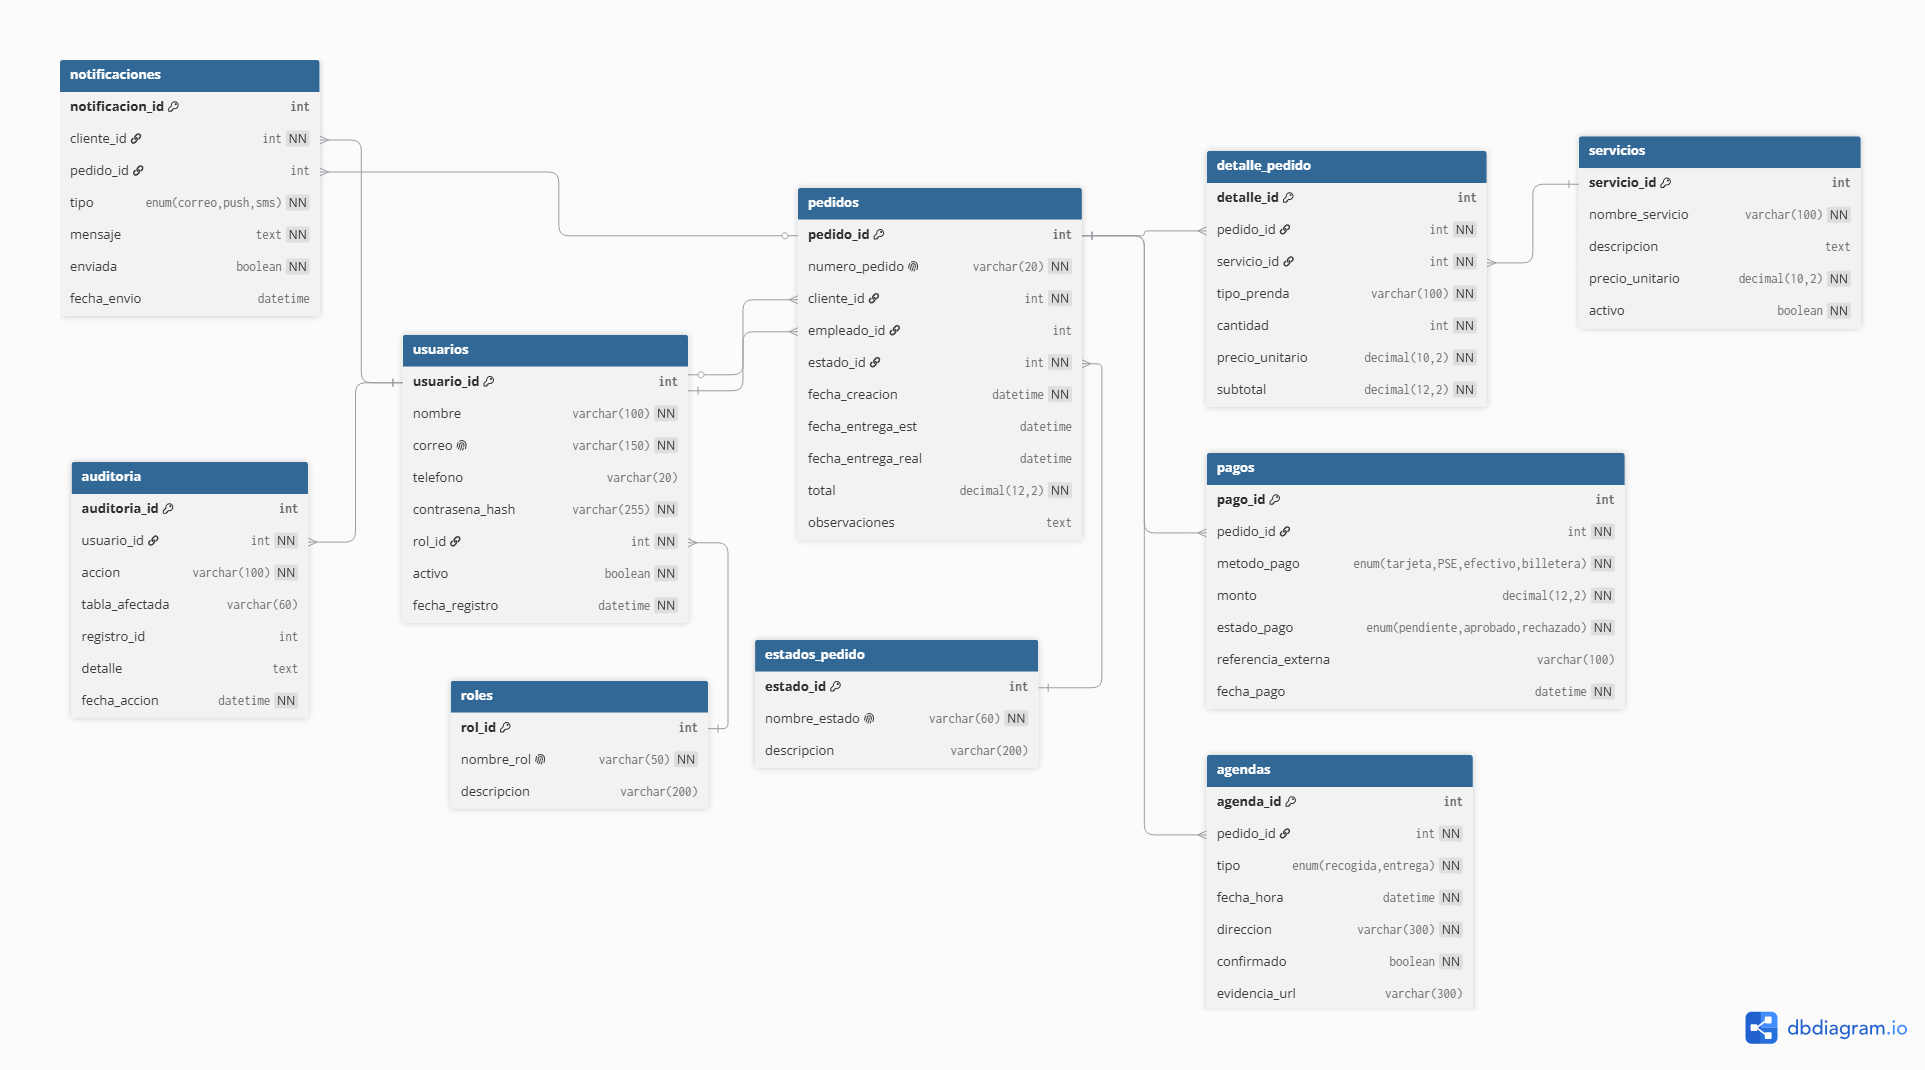
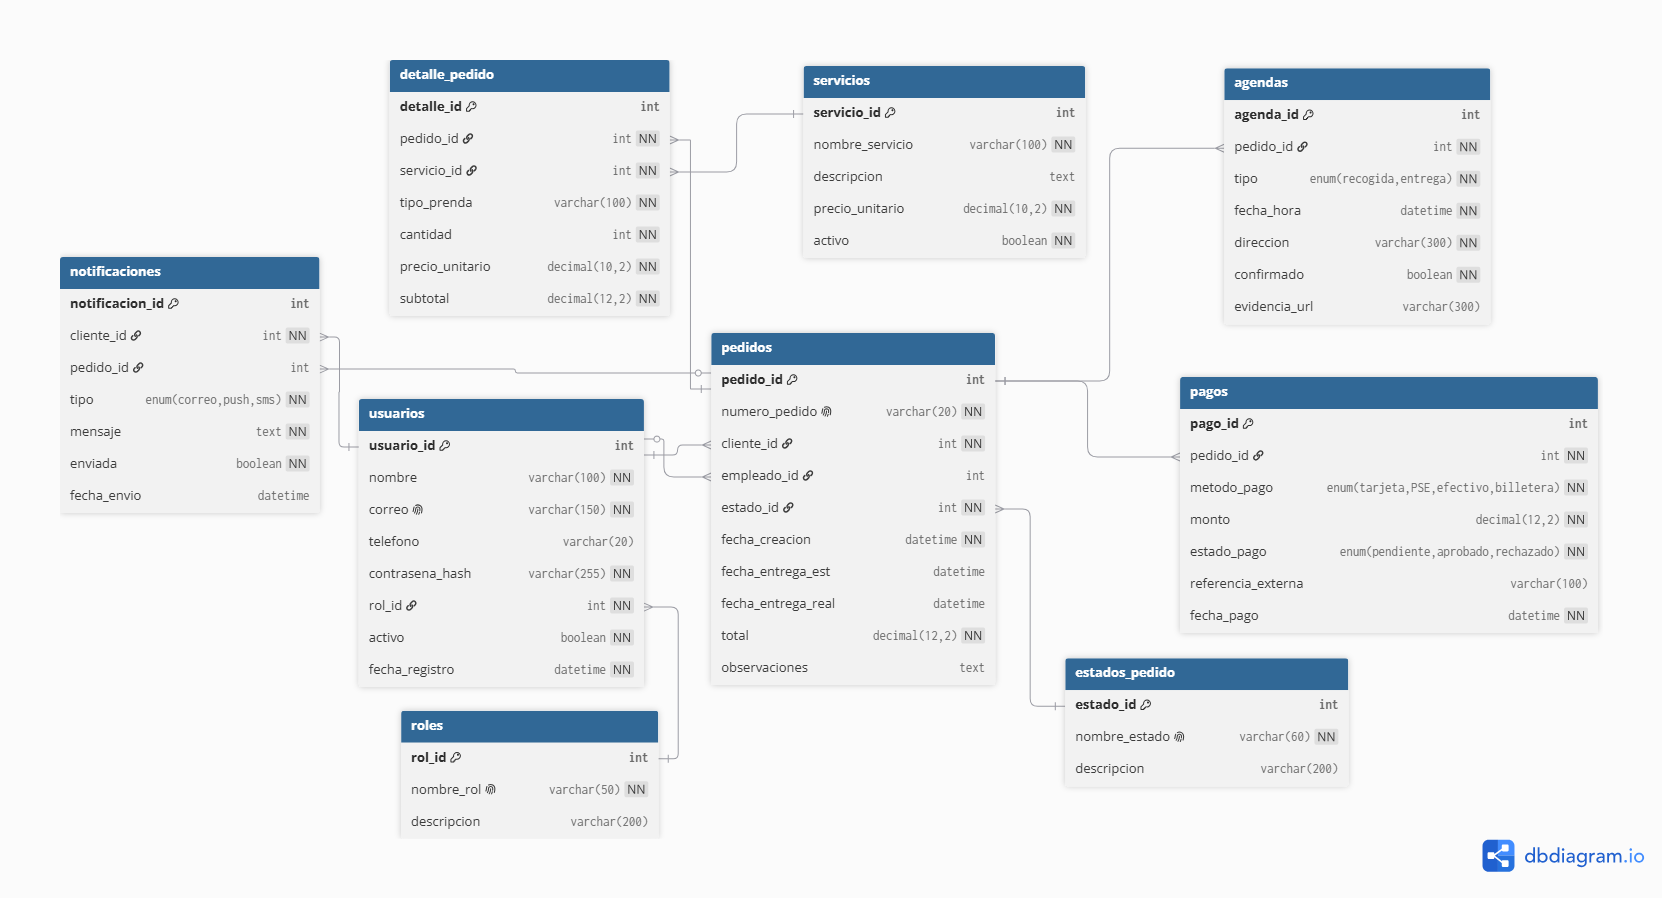
Cambios de diseño y contenido

diff --git a/css/styles.css b/css/styles.css
@@ -715,6 +715,74 @@ code{
 }
 .pattern-card p{ font-size:.9rem; margin:0; }
 
+.stack-grid{
+  display:flex;
+  flex-wrap:wrap;
+  gap: .8rem;
+  margin-top: 1rem;
+}
+.stack-chip{
+  display:inline-flex;
+  align-items:center;
+  gap:.55rem;
+  font-size:.88rem;
+  font-weight:600;
+  color: var(--text-main);
+  background: var(--bg-alt);
+  border: 1px solid var(--surface-border);
+  padding: .55rem 1.1rem;
+  border-radius: 50px;
+  transition: transform .2s ease, box-shadow .2s ease, border-color .2s ease;
+}
+.stack-chip:hover{
+  transform: translateY(-3px);
+  box-shadow: var(--sombra-sm);
+  border-color: var(--azul-acento);
+}
+.stack-chip i{
+  color: var(--azul-principal);
+  font-size: 1rem;
+}
+
+.standards-grid{
+  display:grid;
+  grid-template-columns: repeat(2, 1fr);
+  gap: 1.2rem;
+  margin: 1.2rem 0 1.4rem;
+}
+.standard-card{
+  background: var(--bg-alt);
+  border-radius: var(--radio-md);
+  padding: 1.4rem;
+  transition: transform .25s ease, box-shadow .25s ease;
+}
+.standard-card:hover{ transform: translateY(-4px); box-shadow: var(--sombra-sm); }
+.standard-card__badge{
+  display:inline-flex;
+  align-items:center;
+  gap:.5rem;
+  font-family: var(--font-display);
+  font-weight:700;
+  font-size:.85rem;
+  color:#fff;
+  background: var(--azul-principal);
+  padding: .3rem .9rem;
+  border-radius: 50px;
+  margin-bottom: .9rem;
+}
+.standard-card ul{
+  margin:0;
+  padding-left: 1.1rem;
+  display:flex;
+  flex-direction:column;
+  gap:.5rem;
+}
+.standard-card li{
+  font-size:.9rem;
+  color: var(--text-muted);
+}
+.standard-card code{ font-size:.82rem; }
+
 .scrum-grid{
   display:grid;
   grid-template-columns: repeat(3, 1fr);
@@ -975,6 +1043,7 @@ code{
 
   .objetivos-grid{ grid-template-columns: 1fr; }
   .patterns-grid{ grid-template-columns: 1fr; }
+  .standards-grid{ grid-template-columns: 1fr; }
   .scrum-grid{ grid-template-columns: 1fr; }
   .typo-grid{ grid-template-columns: 1fr; }
   .proto-grid{ grid-template-columns: 1fr; }

diff --git a/index.html b/index.html
@@ -257,7 +257,7 @@
 
         <figure class="diagram-card reveal" data-lightbox>
           <div class="diagram-card__img">
-            <img src="img/modelo-conceptual.png" alt="Modelo conceptual" loading="lazy">
+            <img src="img/modelo_conceptual.png" alt="Modelo conceptual" loading="lazy">
             <span class="diagram-card__zoom"><i class="fa-solid fa-magnifying-glass-plus"></i></span>
           </div>
           <figcaption>
@@ -272,8 +272,30 @@
             <span class="diagram-card__zoom"><i class="fa-solid fa-magnifying-glass-plus"></i></span>
           </div>
           <figcaption>
-            <h3>Modelo lógico (ER)</h3>
+            <h3>Modelo lógico</h3>
             <p>Diagrama entidad-relación con tablas, llaves primarias/foráneas y relaciones para MySQL.</p>
+          </figcaption>
+        </figure>
+
+        <figure class="diagram-card reveal" data-lightbox>
+          <div class="diagram-card__img">
+            <img src="img/modelo_mer.png" alt="Modelo entidad-relación" loading="lazy">
+            <span class="diagram-card__zoom"><i class="fa-solid fa-magnifying-glass-plus"></i></span>
+          </div>
+          <figcaption>
+            <h3>Modelo entidad-relación</h3>
+            <p>Representación detallada de entidades, atributos y relaciones del dominio de negocio antes de su normalización.</p>
+          </figcaption>
+        </figure>
+
+        <figure class="diagram-card reveal" data-lightbox>
+          <div class="diagram-card__img">
+            <img src="img/modelo_fisico.png" alt="Modelo físico de base de datos" loading="lazy">
+            <span class="diagram-card__zoom"><i class="fa-solid fa-magnifying-glass-plus"></i></span>
+          </div>
+          <figcaption>
+            <h3>Modelo físico</h3>
+            <p>Estructura final de tablas, tipos de dato, índices y restricciones implementada en el motor MySQL.</p>
           </figcaption>
         </figure>
 
@@ -316,17 +338,47 @@
             <span class="pattern-card__badge">Repository</span>
             <p>Aísla el acceso a la base de datos del resto de la lógica de negocio, centralizando las consultas relacionadas con cada entidad.</p>
           </div>
-        </div>
         <div class="justification">
           <i class="fa-solid fa-circle-check"></i>
           <p><strong>Justificación:</strong> la combinación de estos dos patrones mantiene el código organizado y con responsabilidades claras, favorece la mantenibilidad al aislar la lógica de acceso a datos —de modo que un cambio de motor de base de datos afectaría únicamente a los repositorios— y prepara al sistema para escalar sin necesidad de reestructurar lo ya construido.</p>
         </div>
       </div>
 
+      <!-- Stack tecnológico -->
+      <div class="dev-block reveal">
+        <h3><i class="fa-solid fa-microchip"></i> Stack tecnológico</h3>
+        <div class="stack-grid">
+          <span class="stack-chip"><i class="fa-brands fa-html5"></i> HTML5</span>
+          <span class="stack-chip"><i class="fa-brands fa-css3-alt"></i> CSS3</span>
+          <span class="stack-chip"><i class="fa-brands fa-js"></i> JavaScript</span>
+          <span class="stack-chip"><i class="fa-brands fa-bootstrap"></i> Bootstrap 5</span>
+          <span class="stack-chip"><i class="fa-brands fa-node-js"></i> Node.js</span>
+          <span class="stack-chip"><i class="fa-solid fa-route"></i> Express</span>
+          <span class="stack-chip"><i class="fa-solid fa-database"></i> MySQL</span>
+          <span class="stack-chip"><i class="fa-solid fa-cubes"></i> Sequelize (ORM)</span>
+          <span class="stack-chip"><i class="fa-brands fa-git-alt"></i> Git</span>
+        </div>
+      </div>
+
       <!-- Estándares -->
       <div class="dev-block reveal">
         <h3><i class="fa-solid fa-code"></i> Estándares de programación utilizados</h3>
-        <p>El proyecto sigue convenciones de nomenclatura consistentes: <code>camelCase</code> para variables, atributos y métodos; <code>PascalCase</code> para clases, controladores, servicios y repositorios; y <code>snake_case</code> para tablas y campos en la base de datos. A nivel de estilo se emplean 2 espacios de indentación en JavaScript, líneas de máximo 100 caracteres y llaves obligatorias en las estructuras de control, junto con los principios <strong>DRY</strong>, <strong>KISS</strong> y <strong>YAGNI</strong> como guía general de diseño del código.</p>
+        <div class="standards-grid">
+          <div class="standard-card">
+            <span class="standard-card__badge"><i class="fa-brands fa-js"></i> JavaScript (Frontend / Backend)</span>
+            <ul>
+              <li><code>camelCase</code> para variables, atributos y métodos.</li>
+              <li><code>PascalCase</code> para clases, controladores, servicios y repositorios.</li>
+            </ul>
+          </div>
+          <div class="standard-card">
+            <span class="standard-card__badge"><i class="fa-solid fa-database"></i> Base de datos (MySQL)</span>
+            <ul>
+              <li><code>snake_case</code> para tablas y campos.</li>
+            </ul>
+          </div>
+        </div>
+        <p>A nivel de estilo general se emplean 2 espacios de indentación en JavaScript, líneas de máximo 100 caracteres y llaves obligatorias en las estructuras de control, junto con los principios <strong>DRY</strong>, <strong>KISS</strong> y <strong>YAGNI</strong> como guía general de diseño del código.</p>
         <div class="justification">
           <i class="fa-solid fa-circle-check"></i>
           <p><strong>Justificación:</strong> nombrar cada elemento de forma predecible y coherente reduce la curva de aprendizaje del código para cualquier persona que lo revise, y aplicar principios como DRY, KISS y YAGNI evita duplicación y complejidad innecesaria, lo que se traduce en un código más legible, fácil de depurar y de calidad consistente en todo el proyecto.</p>